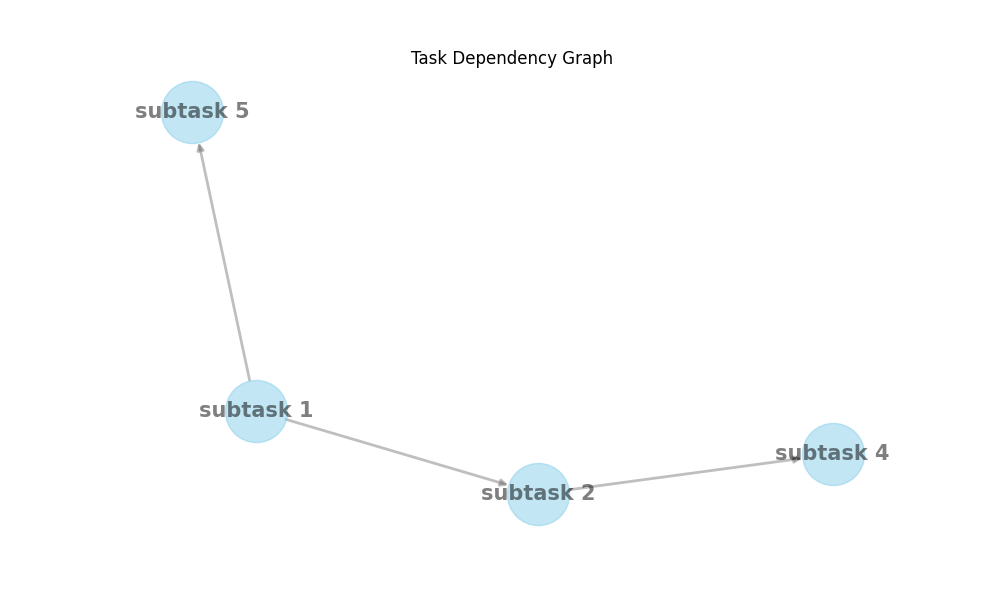
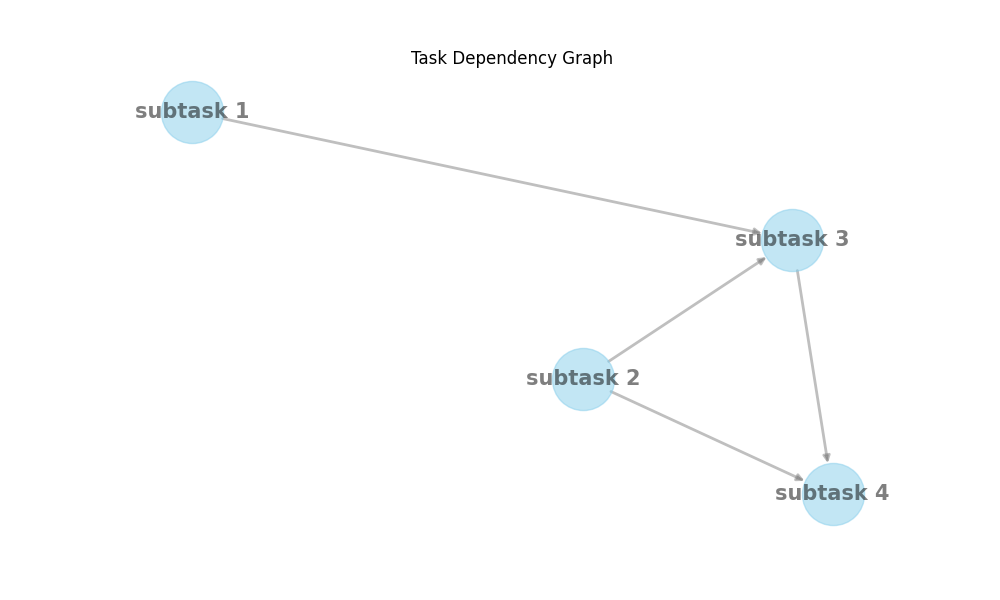
update

diff --git a/apps/streamlit_ui/multi_agent_communication_ui.py b/apps/streamlit_ui/multi_agent_communication_ui.py
@@ -1,6 +1,8 @@
 import json
 
 import streamlit as st
+from PIL import Image
+
 from camel.agents.deductive_reasoner_agent import DeductiveReasonerAgent
 from camel.configs import ChatGPTConfig, FunctionCallingConfig
 from camel.functions import MATH_FUNCS, SEARCH_FUNCS
@@ -36,25 +38,32 @@ def main(
         task_prompt=task_prompt,
         num_roles=num_roles,
         role_names=role_names,
-        function_list=[],
+        function_list=[*SEARCH_FUNCS],
     )
 
     # Split the original task into subtasks
+    num_subtasks=4
     subtasks_with_dependencies_dict = multi_agent.split_tasks(
         task_prompt=task_prompt,
         role_descriptions_dict=role_descriptions_dict,
-        num_subtasks=None,
+        num_subtasks=num_subtasks,
         context_text=context_text,
     )
 
     # Draw the graph of the subtasks
     oriented_graph = {}
+    subtasks_image_path = "apps/streamlit_ui/task_dependency_graph.png"
     for subtask_idx, details in subtasks_with_dependencies_dict.items():
         deps = details["dependencies"]
         oriented_graph[subtask_idx] = deps
     multi_agent.draw_subtasks_graph(
         oriented_graph=oriented_graph,
-        graph_file_path="apps/streamlit_ui/task_dependency_graph.png",
+        graph_file_path=subtasks_image_path,
+    )
+    subtasks_image = Image.open(subtasks_image_path)
+    st.image(
+        subtasks_image, caption='Workflows of Task.',
+        use_column_width=True
     )
 
     # Get the list of subtasks
@@ -197,7 +206,7 @@ def main(
             )
 
             # Start the role-playing to complete the subtask
-            chat_turn_limit, n = 50, 0
+            chat_turn_limit, n = 30, 0
             input_msg = role_play_session.init_chat()
             while n < chat_turn_limit:
                 n += 1
@@ -243,6 +252,14 @@ def main(
                     role_name=ai_assistant_role,
                     message=assistant_response.msg.content,
                 )
+
+                # Avoid the repetition
+                if n % 5 == 0:
+                    assistant_response.msg.content += (
+                        "\n\n" + "To avoid repetitive conversations, " +
+                        "please make your next instruction different " +
+                        "from the previous one."
+                    )
 
                 # reproduced_assistant_msg_with_category = (
                 #     multi_agent.transform_dialogue_into_text(
@@ -395,7 +412,8 @@ def send_message_to_ui(role="", role_name="", message=""):
 
     with st.chat_message(role):
         st.write(
-            f"AI {role}: {role_name}\n\n" f"{message.replace('Next request.', '').replace("CAMEL_TASK_DONE", "TASK_DONE")}"
+            f"AI {role}: {role_name}\n\n"
+            f"{message.replace('Next request.', '').replace('CAMEL_TASK_DONE', 'TASK_DONE')}"
         )
 
     # Save the messages
